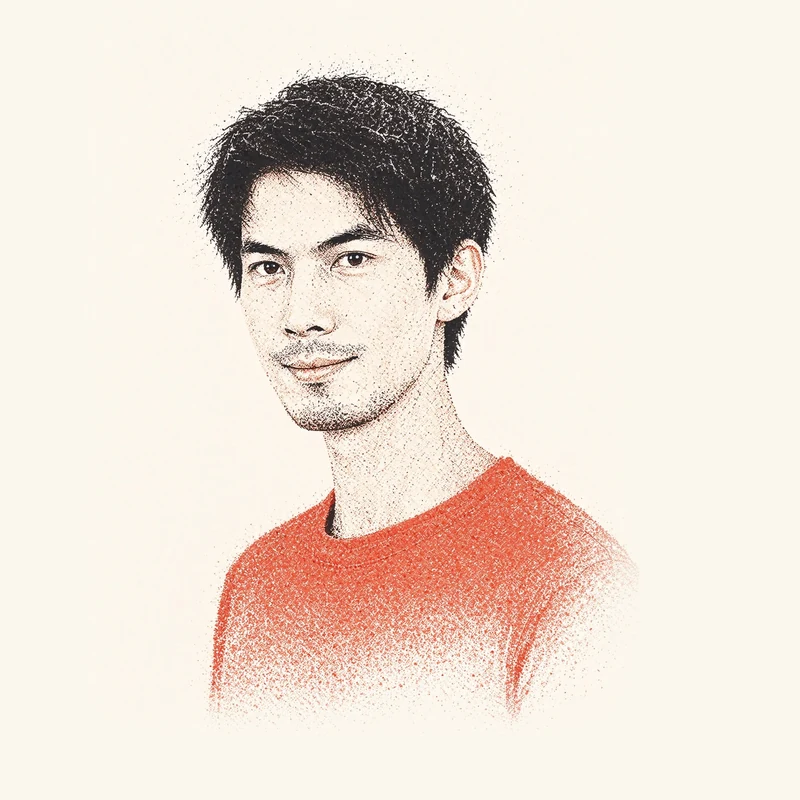
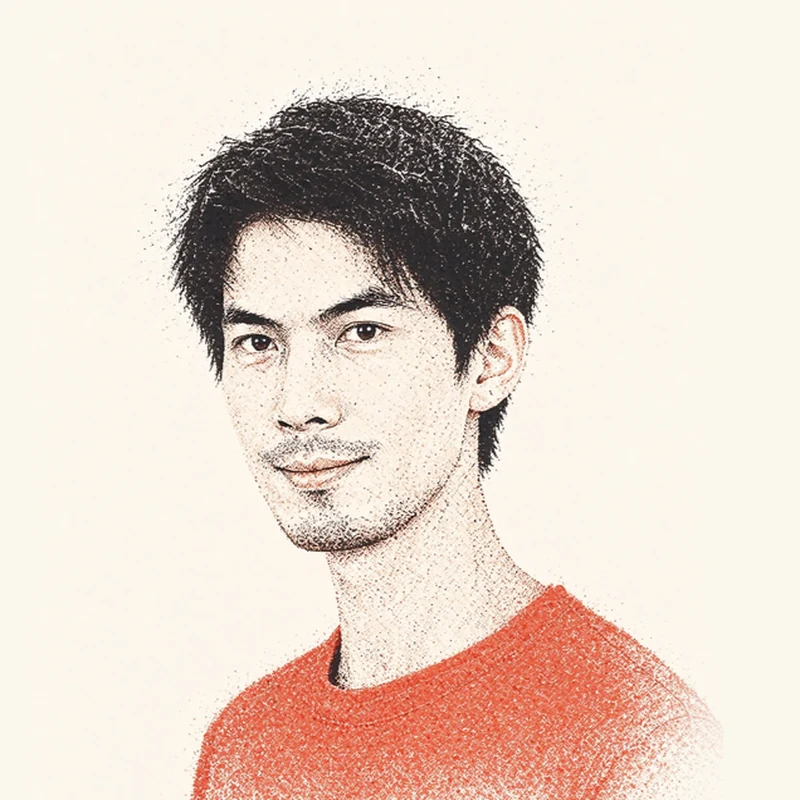
更换点击切换的新头像为用户提供的新肖像（重新生成 800x800 png/webp，缓存版本 v=2）

diff --git a/index.html b/index.html
@@ -135,7 +135,7 @@
 <script>(function(){var b=document.getElementById("themeToggle");if(!b)return;b.addEventListener("click",function(){var r=document.documentElement,n=r.dataset.theme==="dark"?"light":"dark";r.dataset.theme=n;try{localStorage.setItem("theme",n)}catch(e){}})})();</script>
 <script>(function(){var b=document.getElementById("langToggle");if(!b)return;function apply(l){document.documentElement.dataset.lang=l;document.documentElement.lang=l==="en"?"en":"zh-CN";var t=document.querySelector("title");if(t&&t.dataset&&t.dataset[l])document.title=t.dataset[l];b.title=l==="en"?"切换到中文 / To Chinese":"Switch to English / 切换到英文";b.setAttribute("aria-label",b.title);try{localStorage.setItem("lang",l)}catch(e){}}b.addEventListener("click",function(){apply(document.documentElement.dataset.lang==="en"?"zh":"en")});apply(document.documentElement.dataset.lang||"en")})();</script>
 <script>(function(){var y=new Date().getFullYear();var n=document.querySelectorAll(".y");for(var i=0;i<n.length;i++)n[i].textContent=y})();</script>
-<script>(function(){var f=document.querySelector(".portrait");if(!f)return;var pic=f.querySelector("picture");if(!pic)return;var src=pic.querySelector("source"),img=pic.querySelector("img");if(!src||!img)return;var on=false,A={w:"assets/avatar-alt.webp",p:"assets/avatar-alt.png"},B={w:"assets/avatar.webp",p:"assets/avatar.png"};function toggle(){on=!on;var s=on?A:B;src.srcset=s.w;img.src=s.p;}f.setAttribute("role","button");f.setAttribute("tabindex","0");f.setAttribute("aria-label","切换头像 / Switch avatar");f.addEventListener("click",toggle);f.addEventListener("keydown",function(e){if(e.key==="Enter"||e.key===" "){e.preventDefault();toggle();}});})();</script>
+<script>(function(){var f=document.querySelector(".portrait");if(!f)return;var pic=f.querySelector("picture");if(!pic)return;var src=pic.querySelector("source"),img=pic.querySelector("img");if(!src||!img)return;var on=false,A={w:"assets/avatar-alt.webp?v=2",p:"assets/avatar-alt.png?v=2"},B={w:"assets/avatar.webp",p:"assets/avatar.png"};function toggle(){on=!on;var s=on?A:B;src.srcset=s.w;img.src=s.p;}f.setAttribute("role","button");f.setAttribute("tabindex","0");f.setAttribute("aria-label","切换头像 / Switch avatar");f.addEventListener("click",toggle);f.addEventListener("keydown",function(e){if(e.key==="Enter"||e.key===" "){e.preventDefault();toggle();}});})();</script>
 
 </body>
 </html>
